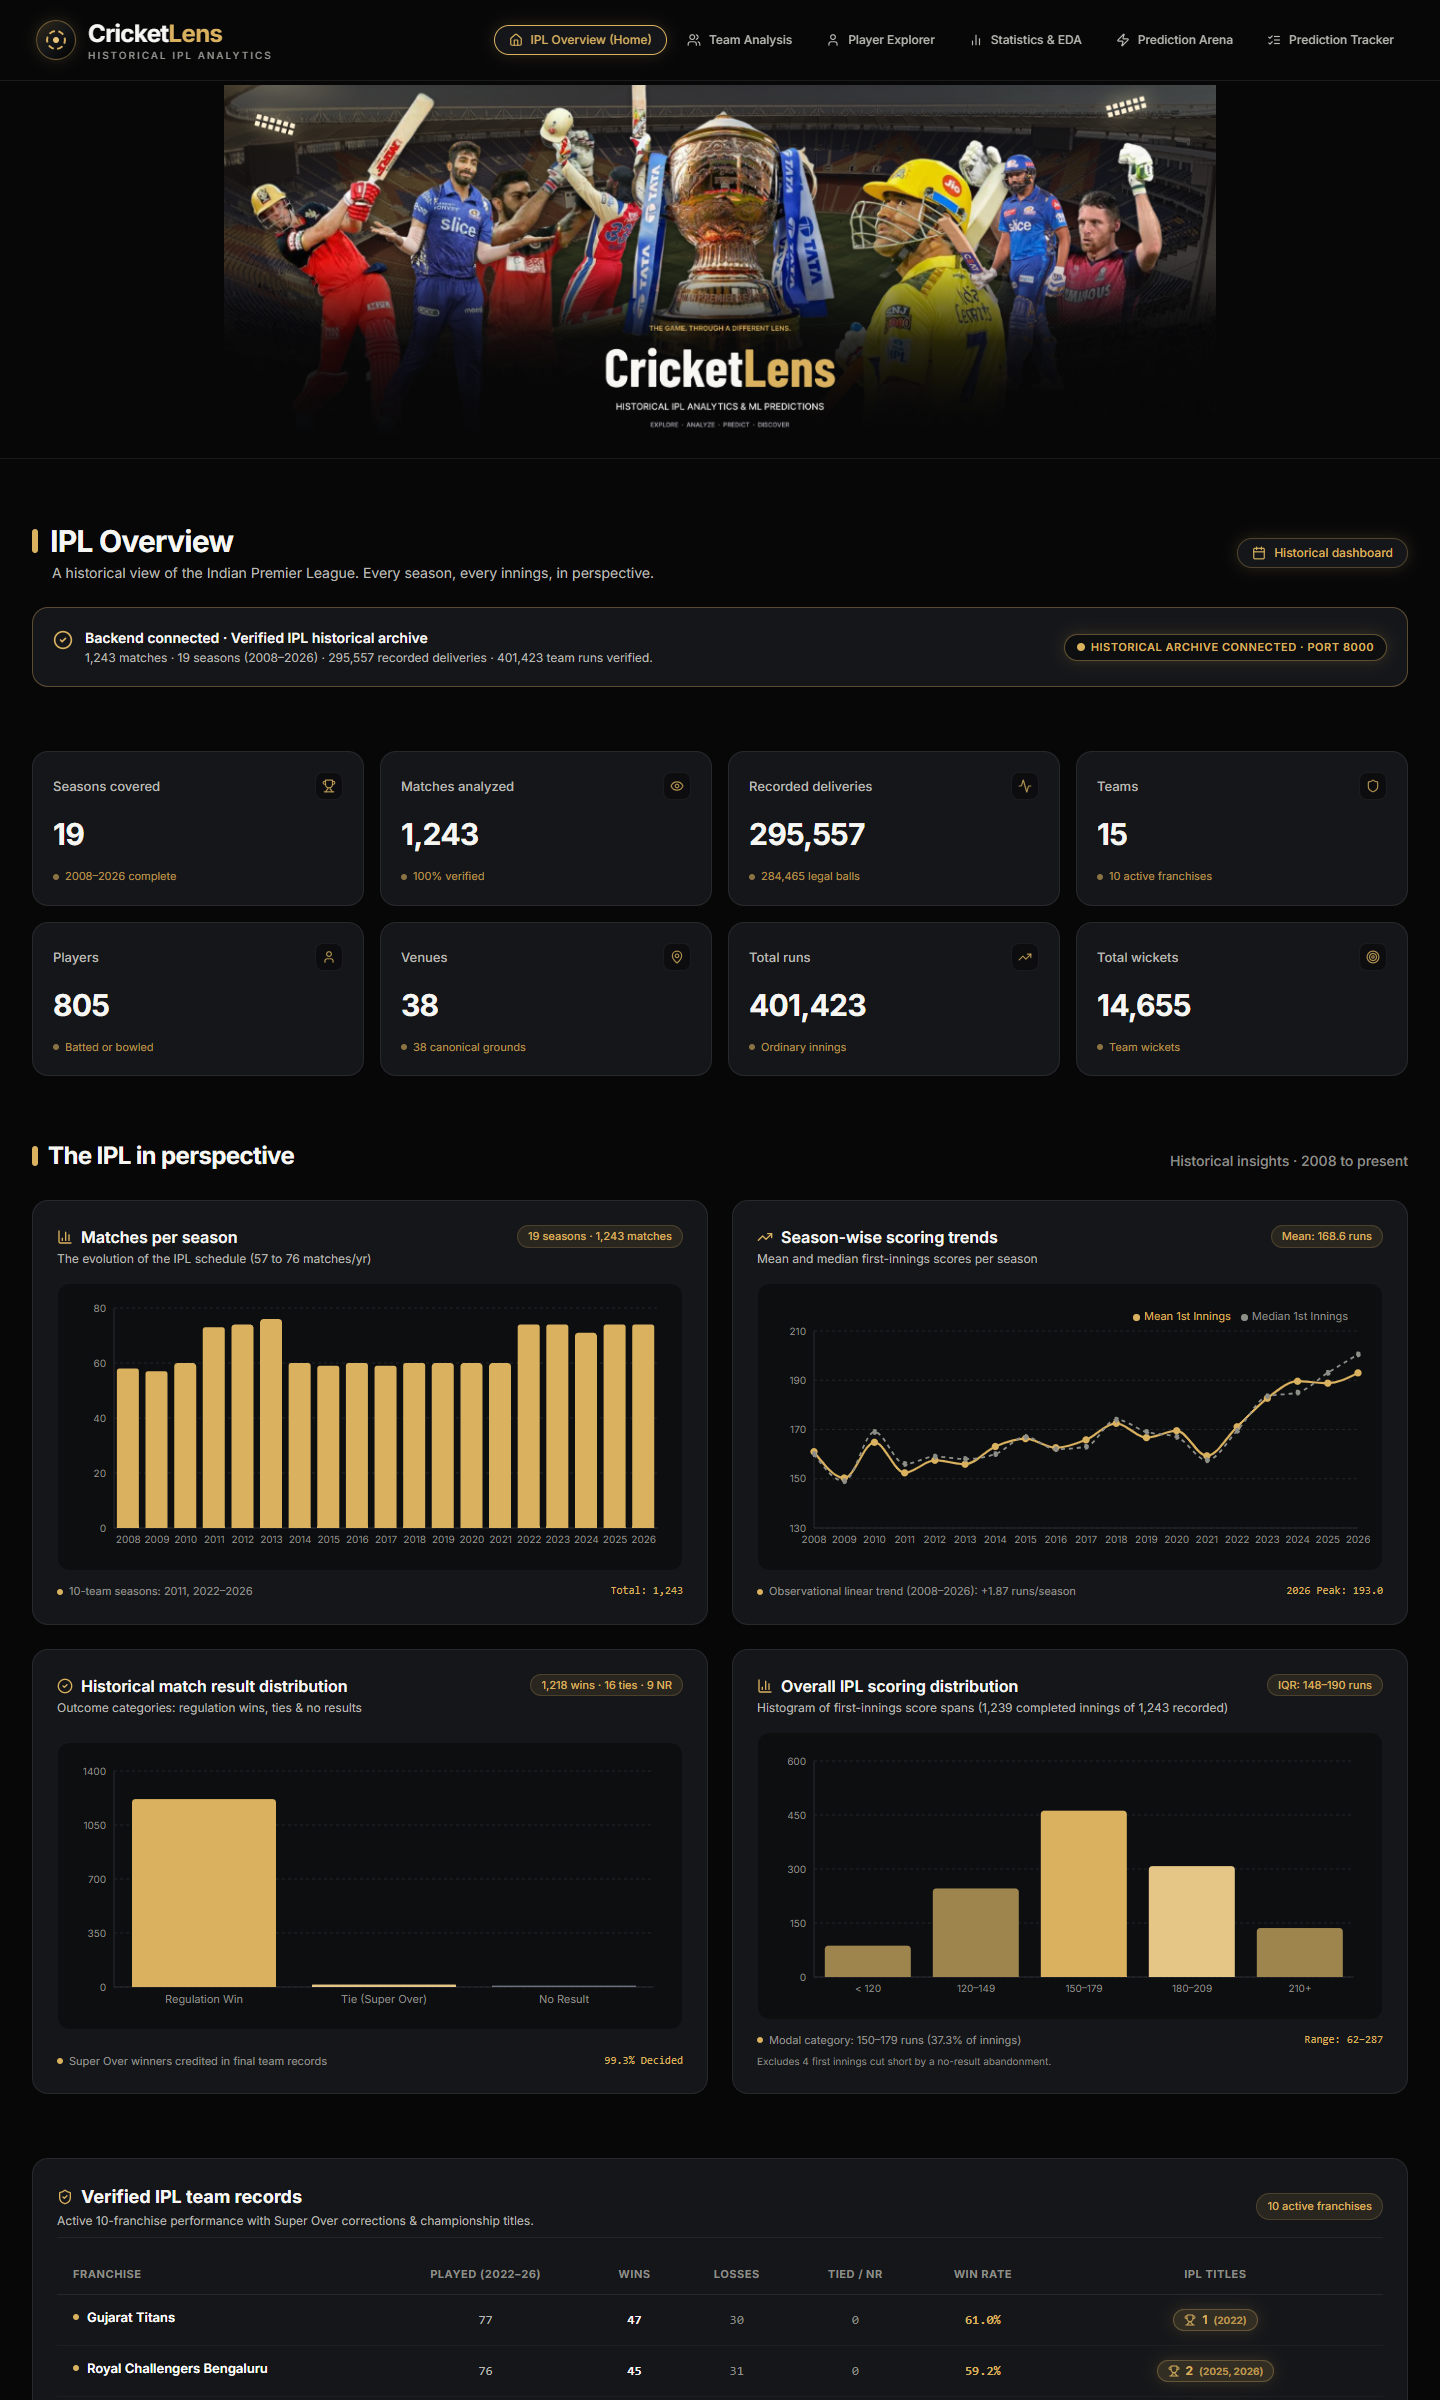
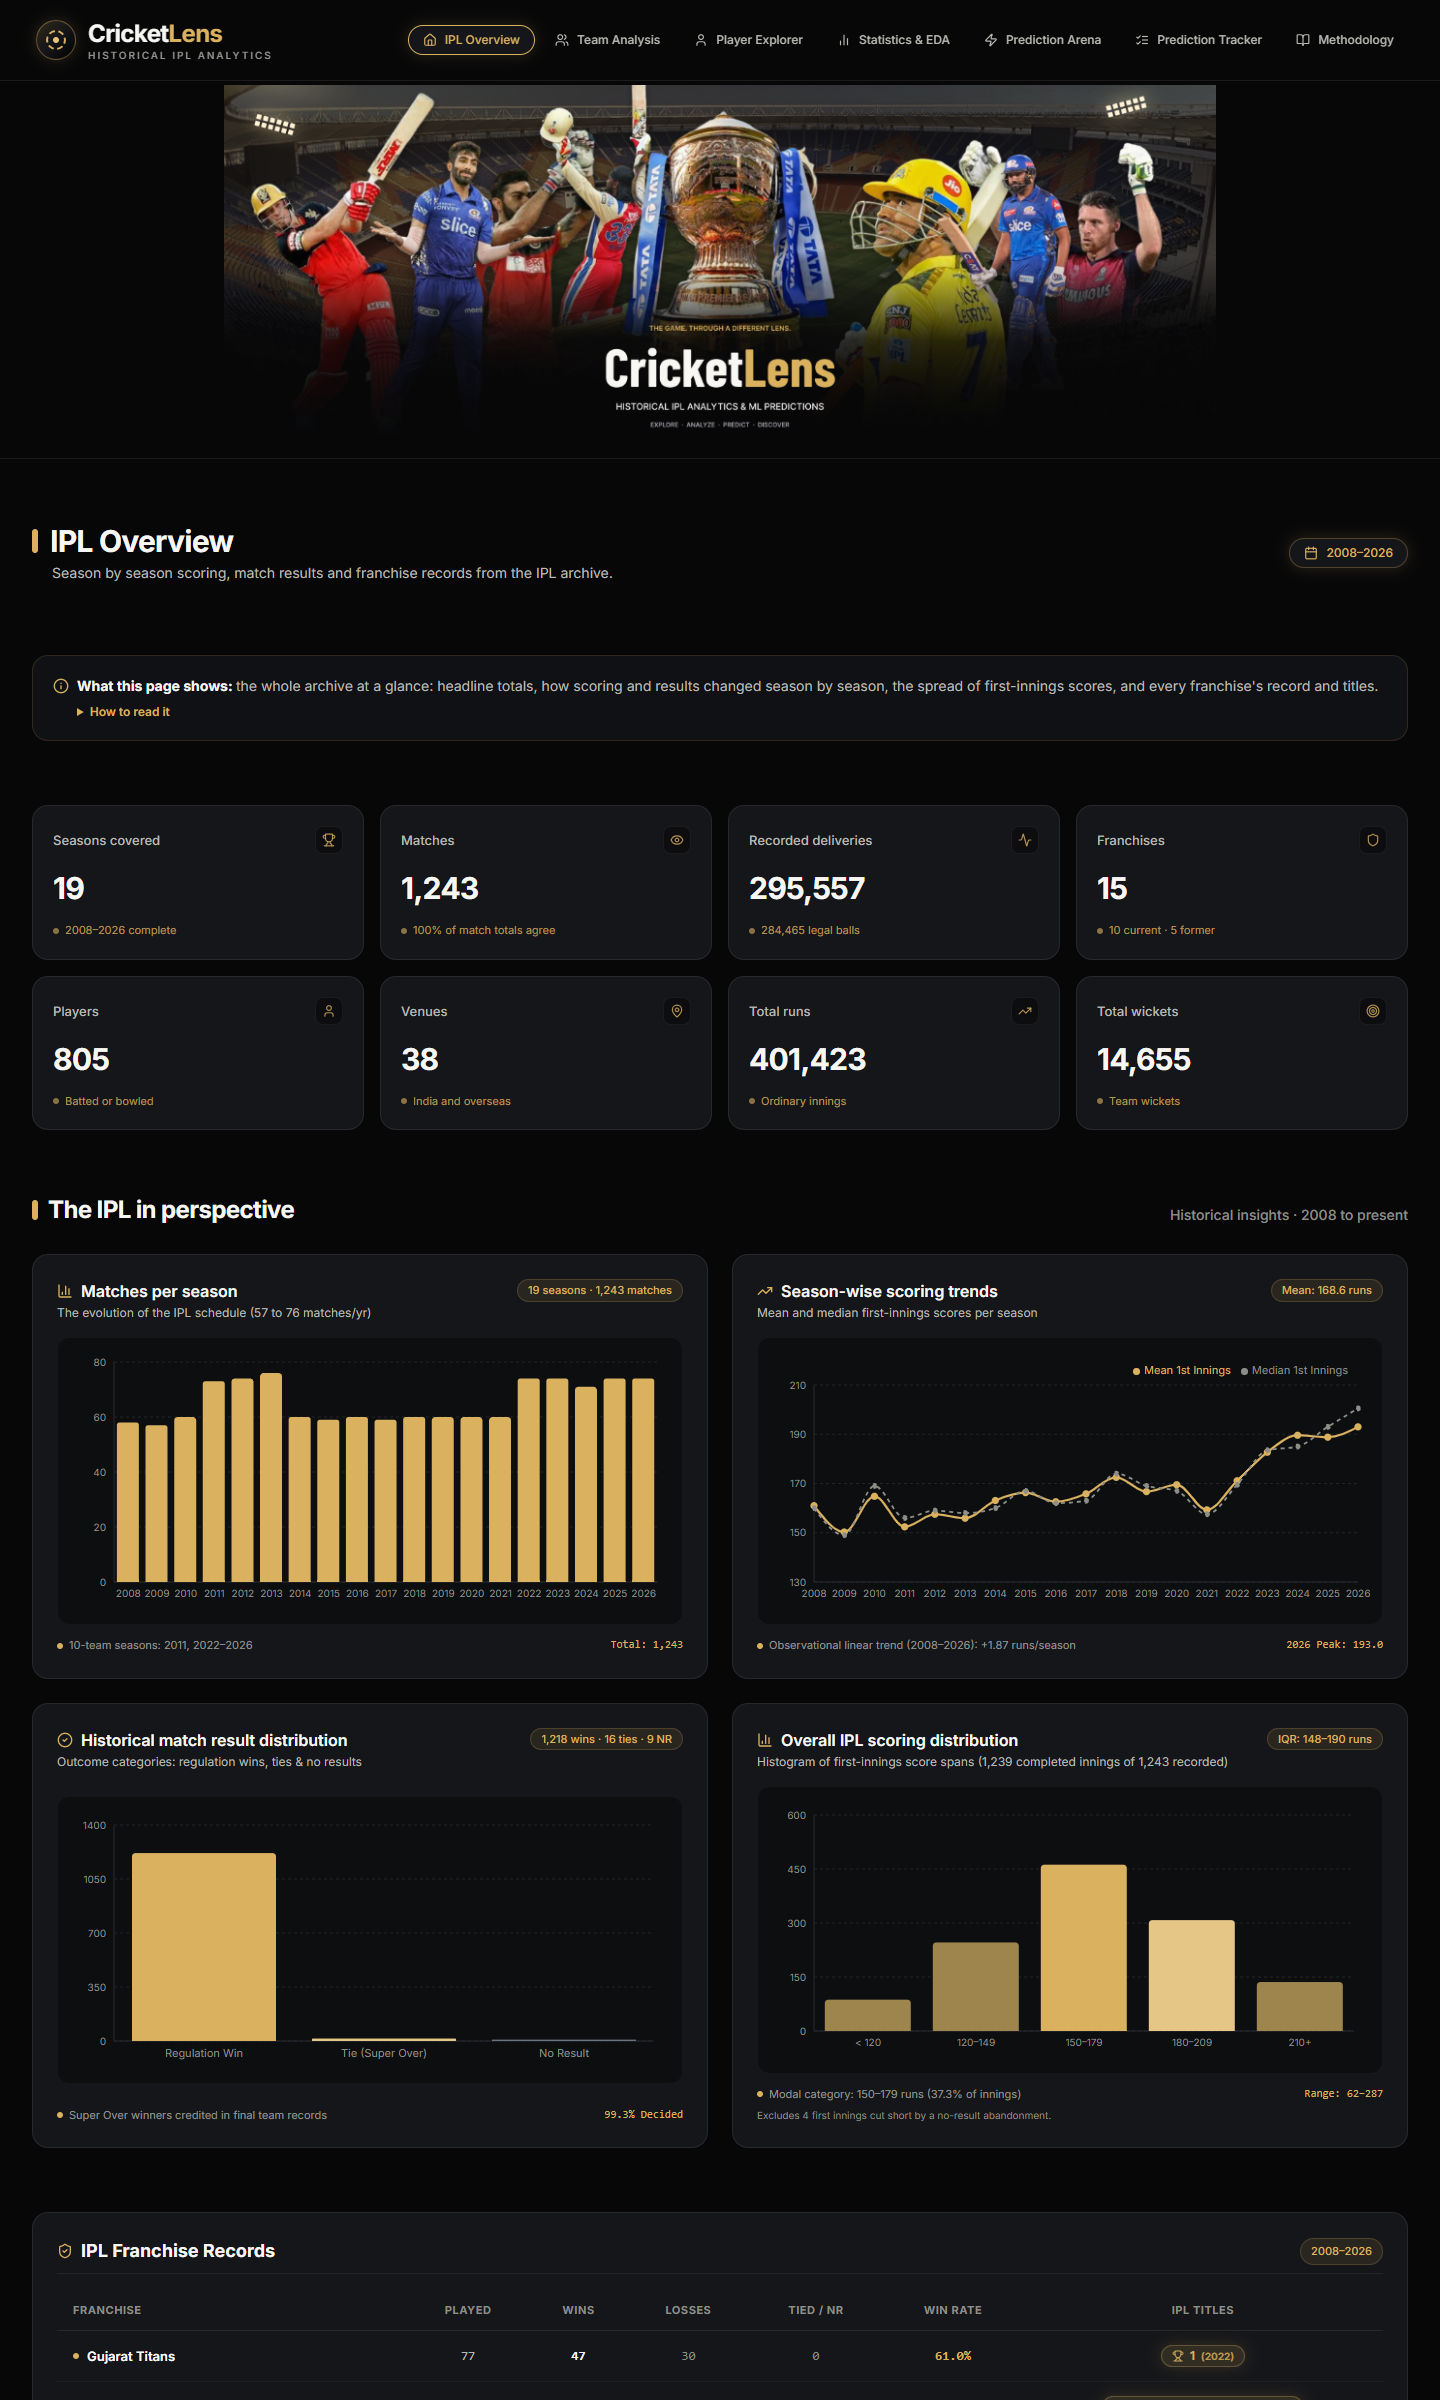
docs: refresh screenshots and measured deployment limits
Recapture the documentation screenshots from the production build
(desktop 1440 px and mobile 390 px) and add the Methodology page; the
set is 3.8 MB in total. The README shows the new page.

The measured-limits tables now record this configuration, measured on a
bare copy of only the Vercel-bundled files run with python -I -S: 362.9 MB
of files and packages, a peak working set of 330 MB answering all 23
endpoint operations, and a largest response of 0.16 MB. The earlier
Linux-wheel measurement is kept and labelled as such. The README states
the current test count (463).

diff --git a/README.md b/README.md
@@ -64,14 +64,17 @@ Every page opens with a short "What this page shows" note and a "How to read it"
 | IPL Overview | Player Explorer (V Kohli) |
 |---|---|
 | ![IPL Overview](docs/screenshots/desktop-01-overview.png) | ![Player Explorer](docs/screenshots/desktop-03-player-explorer.png) |
-| **Prediction Arena (next-over wicket risk)** | **Prediction Tracker (2026 holdout replay)** |
+| **Prediction Arena (next-over wicket risk)** | **Prediction Tracker (2026 replay)** |
 | ![Prediction Arena](docs/screenshots/desktop-05-prediction-arena.png) | ![Prediction Tracker](docs/screenshots/desktop-06-prediction-tracker.png) |
 | **Team Analysis** | **Statistics & EDA** |
 | ![Team Analysis](docs/screenshots/desktop-02-team-analysis.png) | ![Statistics & EDA](docs/screenshots/desktop-04-statistics-eda.png) |
+| **Methodology (How the Predictions Work)** | |
+| ![Methodology](docs/screenshots/desktop-07-methodology.png) | |
 
 Mobile (390px): [IPL Overview](docs/screenshots/mobile-01-overview.png) ·
 [Player Explorer](docs/screenshots/mobile-03-player-explorer.png) ·
-[Prediction Arena](docs/screenshots/mobile-05-prediction-arena.png)
+[Prediction Arena](docs/screenshots/mobile-05-prediction-arena.png) ·
+[Methodology](docs/screenshots/mobile-07-methodology.png)
 
 ## Data source
 
@@ -331,10 +334,10 @@ Measured locally for this configuration (Vercel's own numbers will differ somewh
 
 | Measure | Result | Vercel limit |
 |---|---|---|
-| Function bundle, uncompressed (Linux wheels for Python 3.14 plus the included files) | 384.9 MB (330.3 MB packages, 54.6 MB data, models, figures and code) | 500 MB for Python |
-| Memory of the API process | 187 MB at start, 237 MB with all data loaded, 260 MB after 1,161 requests; peak 340 MB | 2 GB (Hobby) |
-| Cold start: process start to first response | median 7.4 s for `/api/overview/summary`, 8.7 s for a player profile (three runs each) | 60 s set (300 s maximum on Hobby) |
-| Largest response body (every endpoint and the main parameter variants) | 0.16 MB (`/api/predict/options`) | 4.5 MB |
+| Function bundle, uncompressed: the 151 bundled files plus the installed packages of `api/requirements.txt` and their dependencies (Windows wheels of the pinned versions; Linux wheels differ somewhat) | 362.9 MB (57.1 MB files, 305.8 MB packages) | 500 MB for Python |
+| Memory: a bare copy of only the bundled files (`python -I -S`) answering all 23 endpoint operations | peak working set 330 MB | 2 GB (Hobby) |
+| Cold start: process start to first response (measured before the final-model update) | median 7.4 s for `/api/overview/summary`, 8.7 s for a player profile (three runs each) | 60 s set (300 s maximum on Hobby) |
+| Largest response body (every endpoint) | 0.16 MB (`/api/predict/options`); `/api/methodology` is 0.09 MB | 4.5 MB |
 
 ## Reproducing the analysis stages
 
@@ -480,7 +483,7 @@ in `reports/stage_03/`. The seven-algorithm benchmark (`reports/model_benchmark/
   with `holdout_2026.json`. The final models' 2025 versions reproduce those forecasts exactly.
 - Guard tests stop numbers from being typed into the homepage or health endpoint, and the model files'
   SHA256 is checked before and after the test run.
-- Run the suite with `pytest` (395 tests at the time of writing). Website behaviour was checked in a
+- Run the suite with `pytest` (463 tests at the time of writing). Website behaviour was checked in a
   browser at 1440px and 390px widths, including the production build behind the same rewrites as on Vercel.
 
 ## Limitations and known issues

diff --git a/docs/STAGE_04_WEBSITE.md b/docs/STAGE_04_WEBSITE.md
@@ -110,8 +110,9 @@ Measured locally for this configuration (a serverless instance will differ somew
 
 | Measure | Result | Vercel limit |
 |---|---|---|
-| Function bundle, uncompressed: Linux wheels for CPython 3.14 (`pip install --target`) plus the bundled files | 384.9 MB: 330.3 MB packages (SciPy 132.8, pandas 69.0, NumPy 65.3, scikit-learn 42.7), 54.6 MB files | 500 MB (Python) |
-| API process memory | 187 MB once started, 237 MB with all data loaded, 260 MB after 1,161 requests; peak 340 MB | 2 GB (Hobby) |
+| Function bundle, uncompressed: the 151 bundled files plus the installed packages of `api/requirements.txt` and their dependencies (Windows wheels of the pinned versions) | 362.9 MB: 305.8 MB packages, 57.1 MB files | 500 MB (Python) |
+| API process memory: a bare copy of only the bundled files (`python -I -S`) answering all 23 operations | peak working set 330 MB | 2 GB (Hobby) |
+| Earlier measurement, before the final-model update (Linux wheels, `pip install --target`) | 384.9 MB bundle; API process peak 340 MB after 1,161 requests | |
 | Cold start, process start to first 200 | `/api/overview/summary` median 7.4 s; `/api/players/ba607b88/overview` median 8.7 s (three fresh processes each) | `maxDuration` 60 s |
 | Largest response body, over every operation, all 20 figures and parameter variants (1,161 requests) | 0.16 MB, `/api/predict/options` | 4.5 MB |
 
